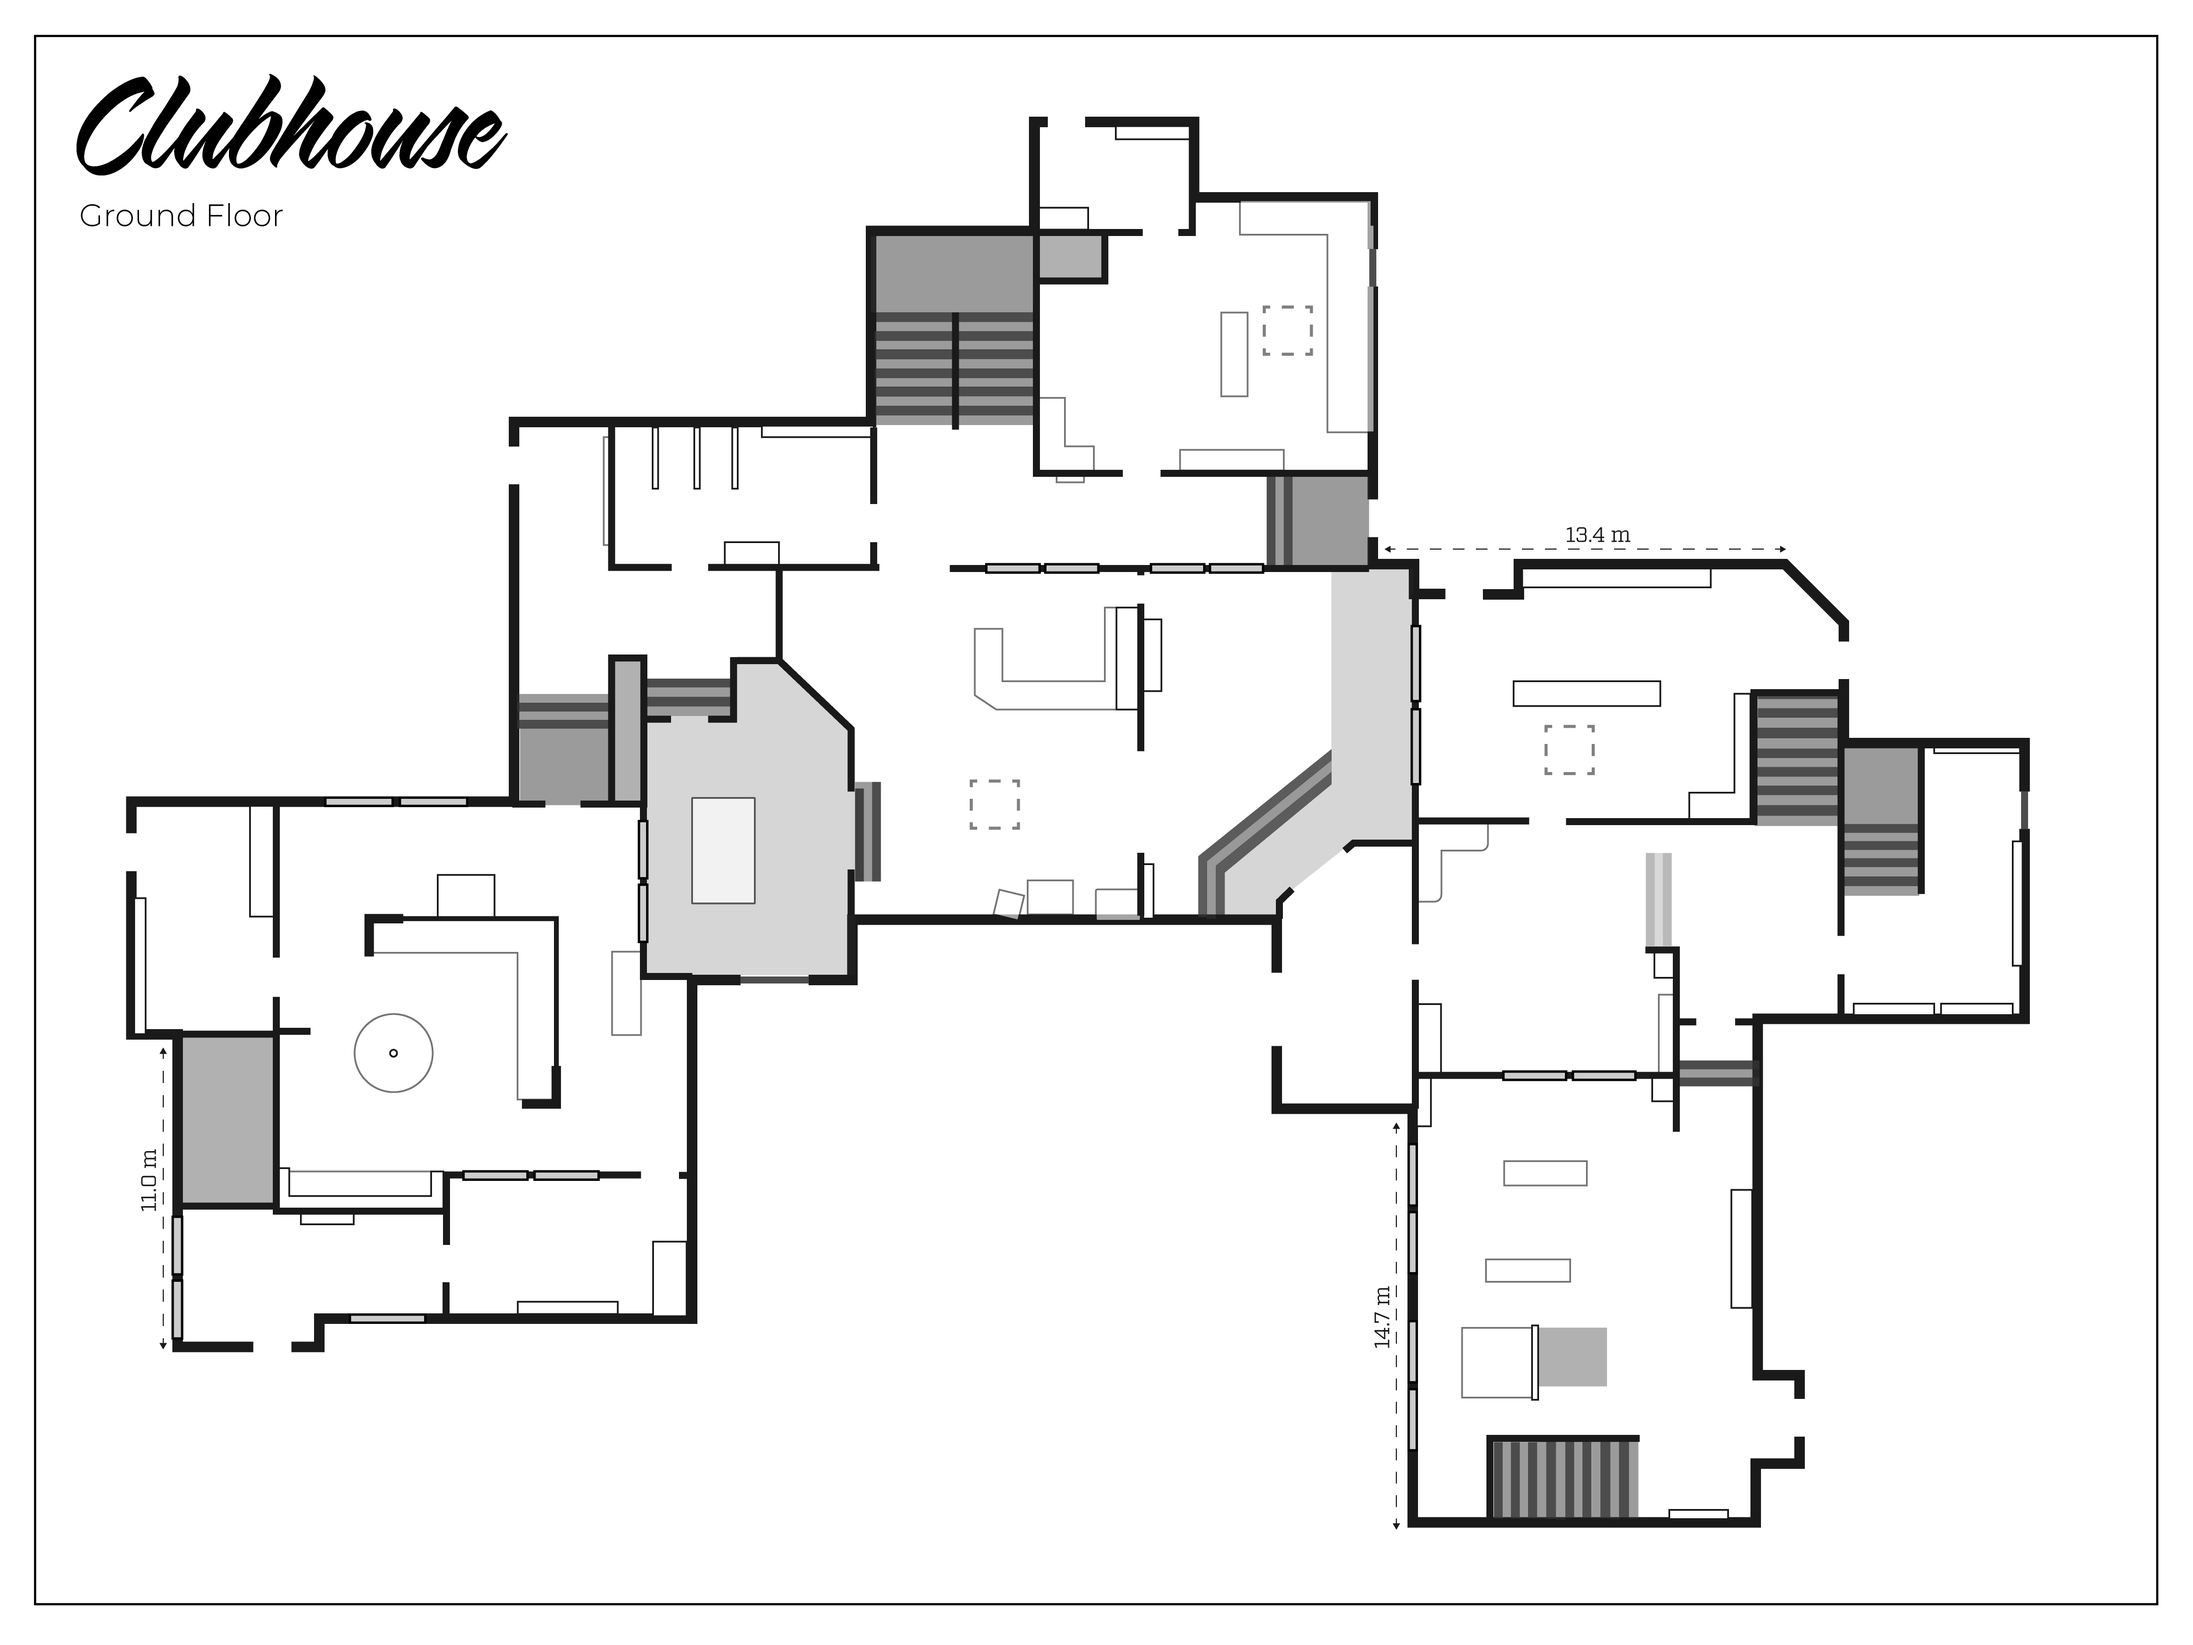
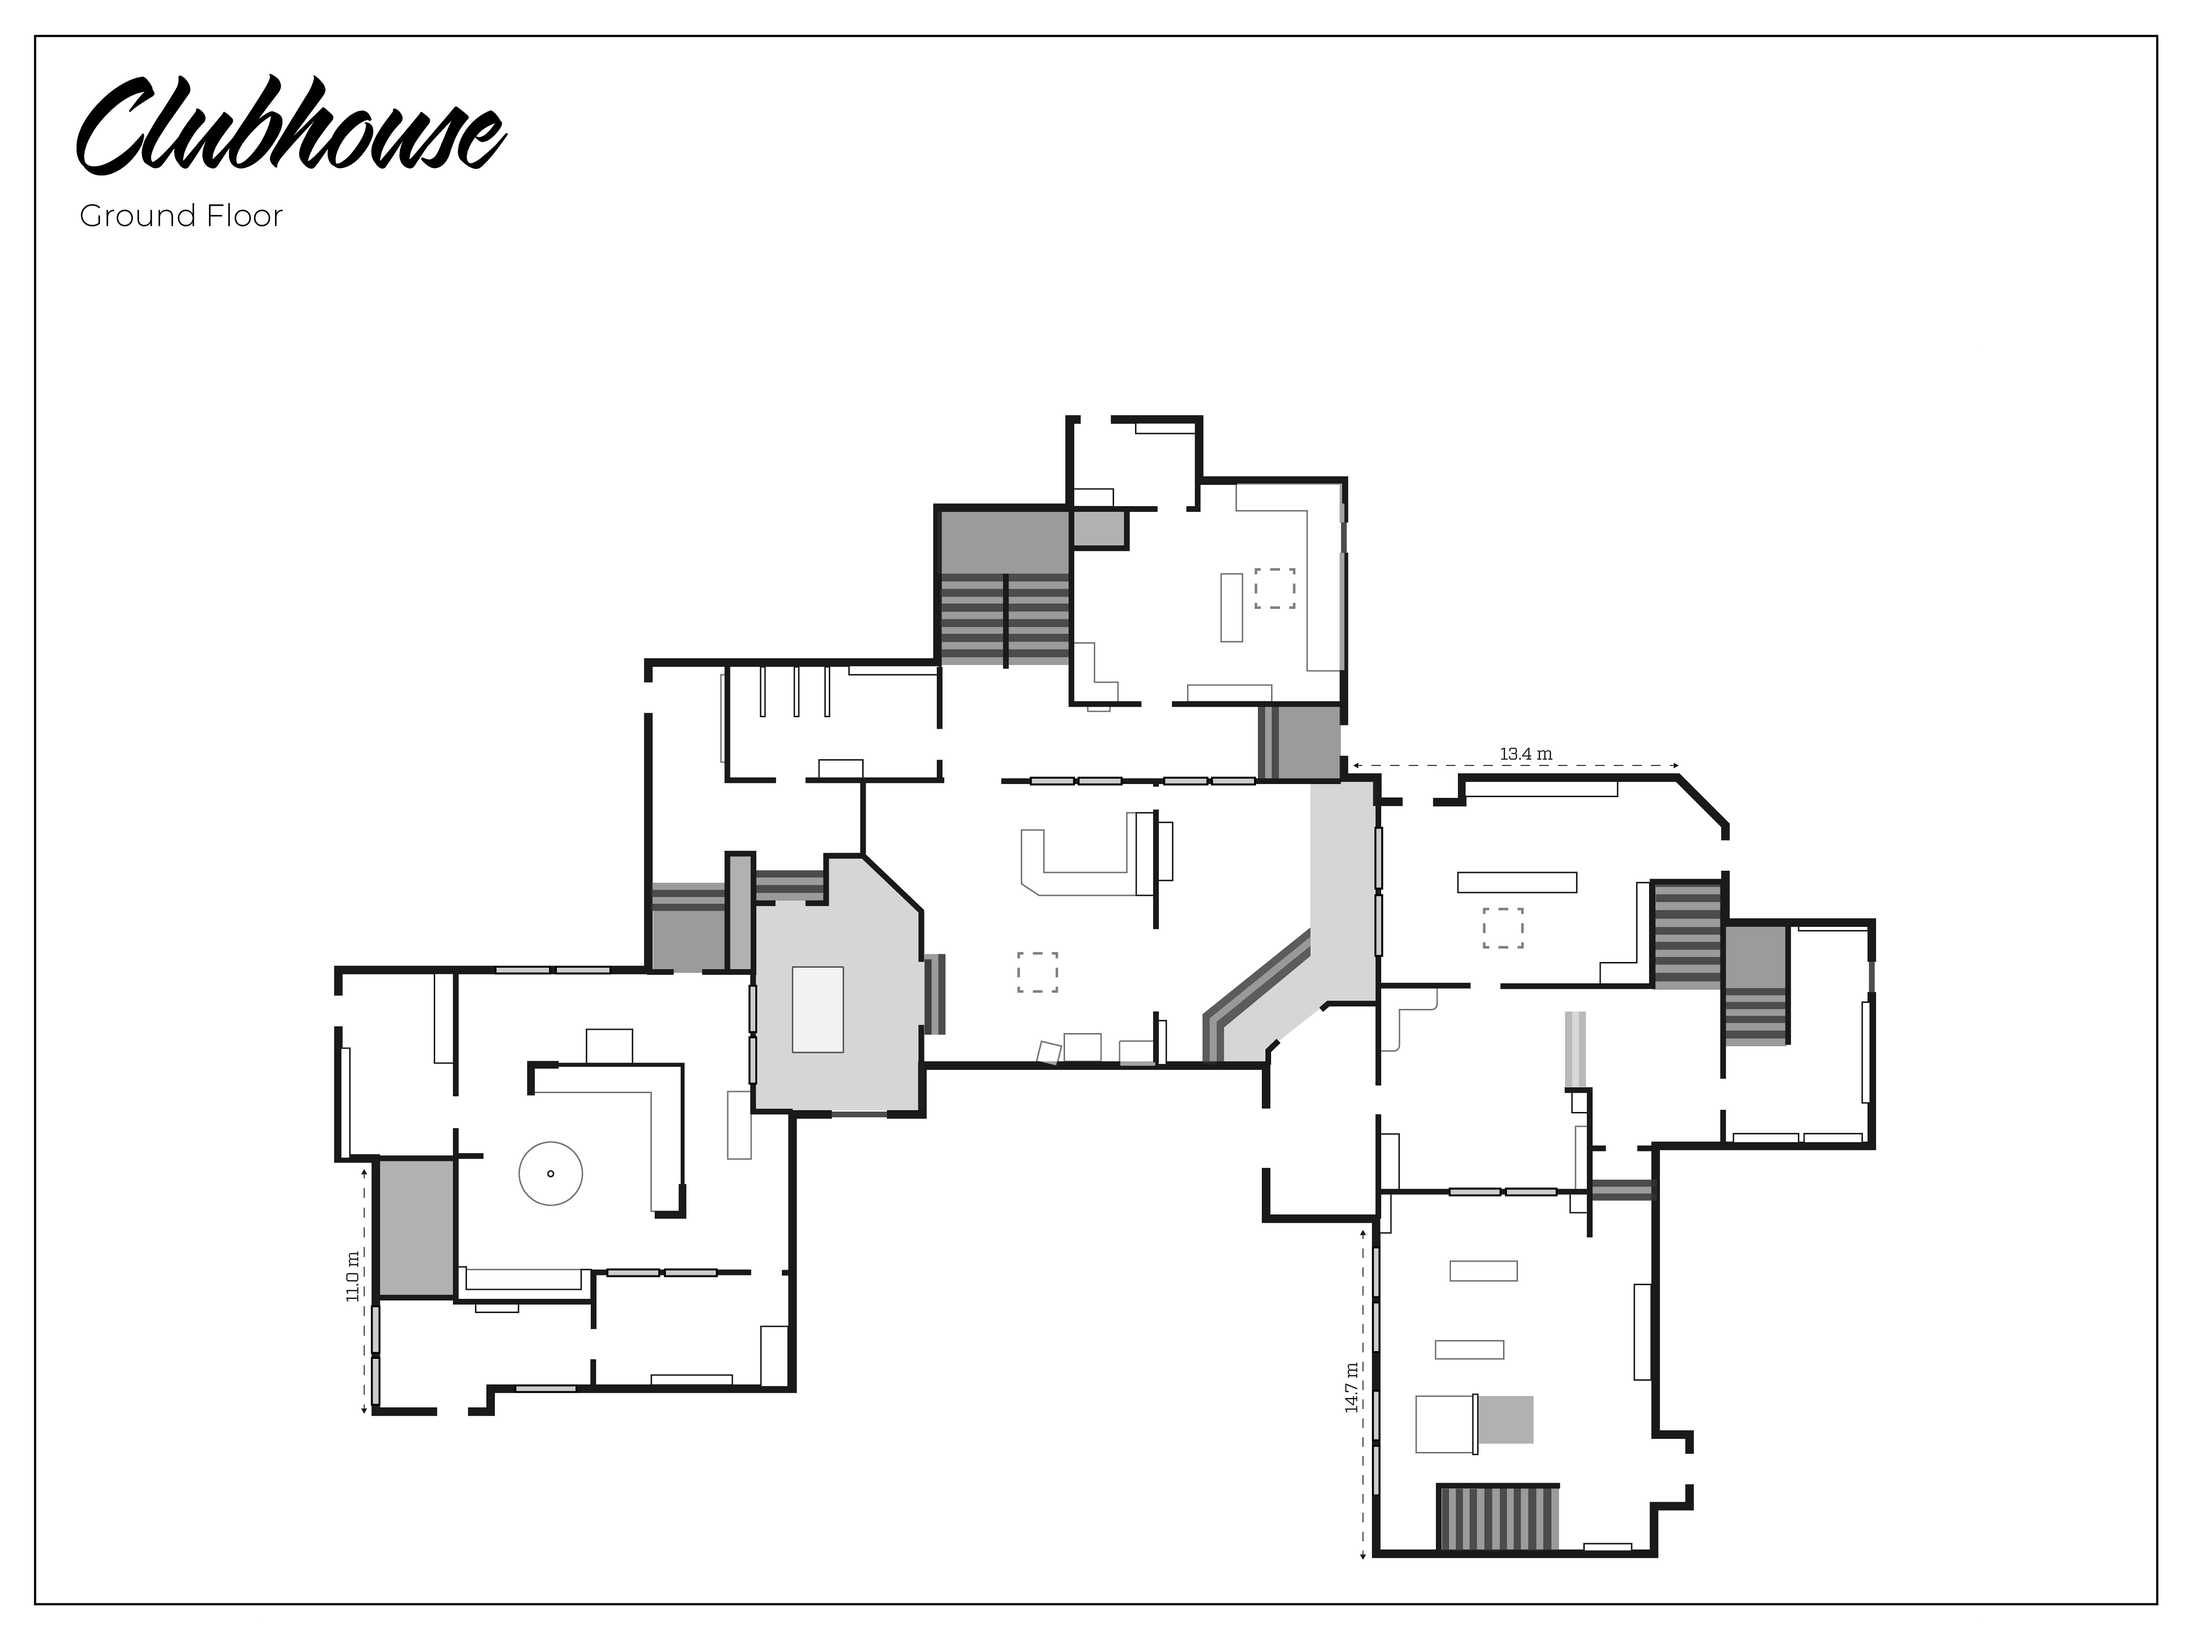
Put Clubhouse's three floors in one frame
The Sternab basement, ground and top floors are drawn at 58, 66.7 and 70
px/m on different offsets. With the re-exported replay data, each floor's
fit puts the stair transitions on the drawn stairs of both floors they
join, and wall gaps agree with the 1F and 2F scales; after the fix the
stairs and outer walls of adjacent floors coincide. All three floors are
resampled into one frame at 54 px/m so the basement tunnel still fits in
the frame; frame and heading stay in place. Callouts move with the
drawing.

diff --git a/docs/content.md b/docs/content.md
@@ -60,6 +60,7 @@ Villaの構造変更は地下のみのため、2階・1階はSternab氏の`Villa
 | Border | 1階が2階の1.11倍（82.2対74 px/m）の縮尺で別の位置 | 1階を2階の縮尺・位置へ再標本化。2階は原図のまま |
 | Bank | 地下が1階より南へ約11 m（716 px）ずれた位置。2階も約1.5 mずれていた | 3階層を各階層の照合結果から共通の位置と縮尺（55 px/m、原図の0.87倍）へ再標本化。地下の駐車場まで枠内に収めるため縮小 |
 | Villa | 地下（Stratbook）と1階・2階（Sternab）で縮尺と位置が異なる。地下ガレージ東側の開口部が約0.9 m南にずれ、北東の屋外階段がない | 1階を基準に、地下SVGを変換し2階を再標本化。地下の開口部を北へ移し、北東の屋外階段を追加 |
+| Clubhouse | 地下・1階・2階の縮尺が異なる（58、66.7、70 px/m）うえに位置もずれていた | 3階層を各階層の照合結果から共通の位置と縮尺（54 px/m）へ再標本化。地下の通路の先端まで枠内に収めるため縮小 |
 
 Sternab氏の画像を補正した階層は、原図を軸ごとの拡大縮小と平行移動だけで再標本化（バイキュービック）し、外枠と見出しは原図の位置のまま残しています。`sourceFile`は元の原図名のままで、`assets/map-sources/`のJPEGが補正版です（sharpで品質98、4:4:4）。出典はSternab氏のままです。補正していない階層は原図と同一のファイルです。
 
